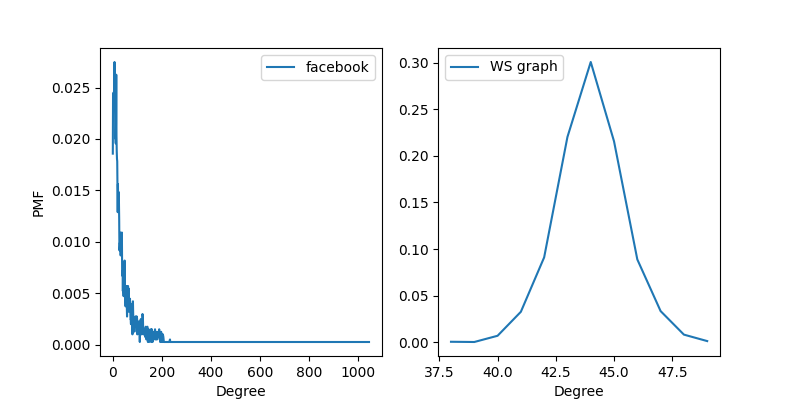
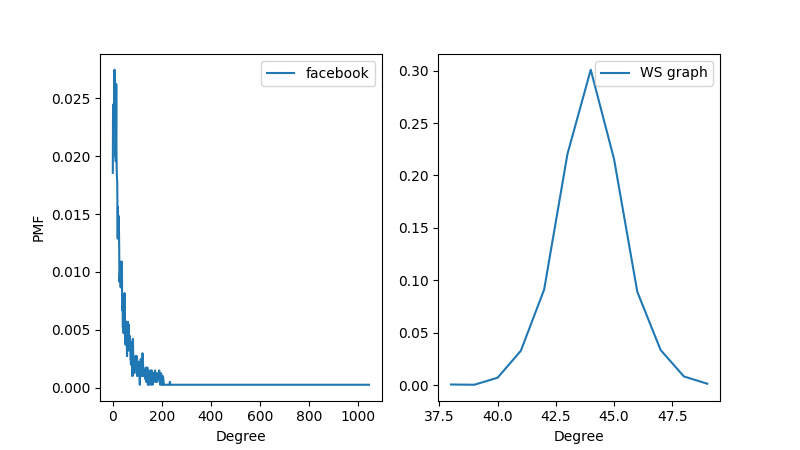
finished main code of ch 4, up to exercises in 4.9

diff --git a/ch4.py b/ch4.py
@@ -1,10 +1,53 @@
 """ chapter 4 of Downey, Think Complexity """
 
+import random
 import networkx as nx
 import numpy as np
 import matplotlib.pyplot as plt
 from networkx.algorithms.approximation import average_clustering
-from empiricaldist import Pmf
+from empiricaldist import Pmf, Cdf
+
+
+def _random_subset(repeated_nodes, k):
+    """ selects a random subset of nodes without repetition """
+    targets = set()
+    while len(targets) < k:
+        # targets does not yet have enough neighbors in it
+        x = random.choice(repeated_nodes)
+        # targets is a set, so duplicates are thrown out
+        targets.add(x)
+
+    return targets
+
+
+def barabasi_albert_graph(n, k):
+    # generate Graph with k nodes
+    G = nx.empty_graph(k)
+    # initialize list of neighbors
+    targets = list(range(k))
+    # initialize list of candidate nodes from which neighbors will be picked
+    repeated_nodes = []
+
+    for source in range(k, n):
+        # connect node 'source' to all (i.e., k) neighbors in targets list
+        G.add_edges_from(zip([source] * k, targets))
+
+        """ update pool so that every node in it is repeated for every neighbor
+        it has; e.g., a node with 3 neighbors is there three times """
+        repeated_nodes.extend(targets)
+        repeated_nodes.extend([source] * k)
+
+        """ pick k new neighbors for next iteration; the way repeated_nodes is
+        updated ensures that a node is picked in proportion to the number of
+        neighbors it has """
+        targets = _random_subset(repeated_nodes, k)
+
+    return G
+
+
+def cumulative_prob(pmf, x):
+    ps = [pmf[value] for value in pmf if value <= x]
+    return np.sum(ps)
 
 
 def degrees(G):
@@ -66,7 +109,7 @@ pmf_fb = Pmf.from_seq(degrees(fb))
 pmf_ws = Pmf.from_seq(degrees(ws))
 
 # plot the distributions
-plt.figure(figsize=(8, 4))
+plt.figure(figsize=(8, 4.5))
 plt.subplot(1, 2, 1)
 pmf_fb.plot(label='facebook')
 plt.xlabel('Degree')
@@ -79,6 +122,7 @@ plt.xlabel('Degree')
 plt.legend()
 
 plt.savefig('figs/chap04-1')
+plt.close()
 
 """ the distribution of probabilities for degree of nodes does not match; so,
 we will use the Barabási-Albert (BA) model going forward. This model has the
@@ -92,8 +136,19 @@ nodes that have many neighbors. """
 ba = nx.barabasi_albert_graph(n, int(k_fb/2), seed=15)
 pmf_ba = Pmf.from_seq(degrees(ba))
 
+C_ba = average_clustering(ba)
+L_ba = estimate_path_length(ba)
+
+print(f"BA \t {n} \t {C_ba} \t {L_ba} \t "
+      f"{np.mean(degrees(ba)):.1f} \t {np.std(degrees(ba)):.1f}")
+
+""" now use probability mass function objects to check the probability that a
+node has a particular degree """
+pmf_fb = Pmf.from_seq(degrees(fb))
+pmf_ws = Pmf.from_seq(degrees(ws))
+
 # plot them now in linear scale
-plt.figure(figsize=(8, 4))
+plt.figure(figsize=(8, 4.5))
 plt.subplot(1, 2, 1)
 pmf_fb.plot(label='facebook')
 plt.xlabel('Degree')
@@ -106,5 +161,83 @@ plt.xlabel('Degree')
 plt.legend()
 
 plt.savefig('figs/chap04-2')
+plt.close()
 
-# TODO: now in log-log scale
+# now in log-log scale
+plt.figure(figsize=(8, 4.5))
+options = dict(ls='', marker='.')
+plt.subplot(1, 2, 1)
+pmf_fb.plot(label='facebook', color='C0', **options)
+plt.xlabel('Degree')
+plt.ylabel('PMF')
+plt.xscale('log')
+plt.yscale('log')
+plt.legend()
+
+plt.subplot(1, 2, 2)
+pmf_ba.plot(label='BA model', color='C2', **options)
+plt.xlabel('Degree')
+plt.xscale('log')
+plt.yscale('log')
+plt.legend()
+
+plt.savefig('figs/chap04-3')
+plt.close()
+
+# using Downey's code to make a BA graph and seeing how it works
+##print("Constructing BA(20, 3) graph")
+##ba_bespoke = barabasi_albert_graph(20, 3)
+##nx.draw_circular(ba_bespoke, node_size=700, with_labels=True)
+##plt.show()
+
+""" now use cumulative distribution function objects to represent the data """
+cdf_fb = Cdf.from_seq(degrees(fb), name='facebook')
+cdf_ws = Cdf.from_seq(degrees(ws), name='WS model')
+cdf_ba = Cdf.from_seq(degrees(ba), name='BA model')
+
+# now plot the models on log-x scale to compare with the fb data
+plt.figure(figsize=(8,4.5))
+plt.subplot(1,2,1)
+cdf_fb.plot(color='C0')
+cdf_ws.plot(color='C1')
+plt.xlabel('Degree')
+plt.xscale('log')
+plt.ylabel('CDF')
+plt.legend()
+
+plt.subplot(1,2,2)
+cdf_fb.plot(color='C0')
+cdf_ba.plot(color='C2')
+plt.xlabel('Degree')
+plt.xscale('log')
+plt.legend()
+
+plt.savefig('figs/chap04-4')
+plt.close()
+
+""" this shows that the WS model is very bad, and the BA is okay from the
+median and up. Now we'll use the Complementary CDF to get a closer look at the
+BA model's performance.
+
+Note: if the underlying PMF obeys the power law, then the CCDF will, too. This
+implies further that the CCDF will be a straight line on log-log scale. """
+plt.figure(figsize=(8,4.5))
+plt.subplot(1,2,1)
+(1 - cdf_fb).plot(color='C0')
+(1 - cdf_ws).plot(color='C1')
+plt.xlabel('Degree')
+plt.xscale('log')
+plt.ylabel('CCDF')
+plt.yscale('log')
+plt.legend()
+
+plt.subplot(1,2,2)
+(1 - cdf_fb).plot(color='C0')
+(1 - cdf_ba).plot(color='C2')
+plt.xlabel('Degree')
+plt.xscale('log')
+plt.yscale('log')
+plt.legend()
+
+plt.savefig('figs/chap04-5')
+plt.close()
